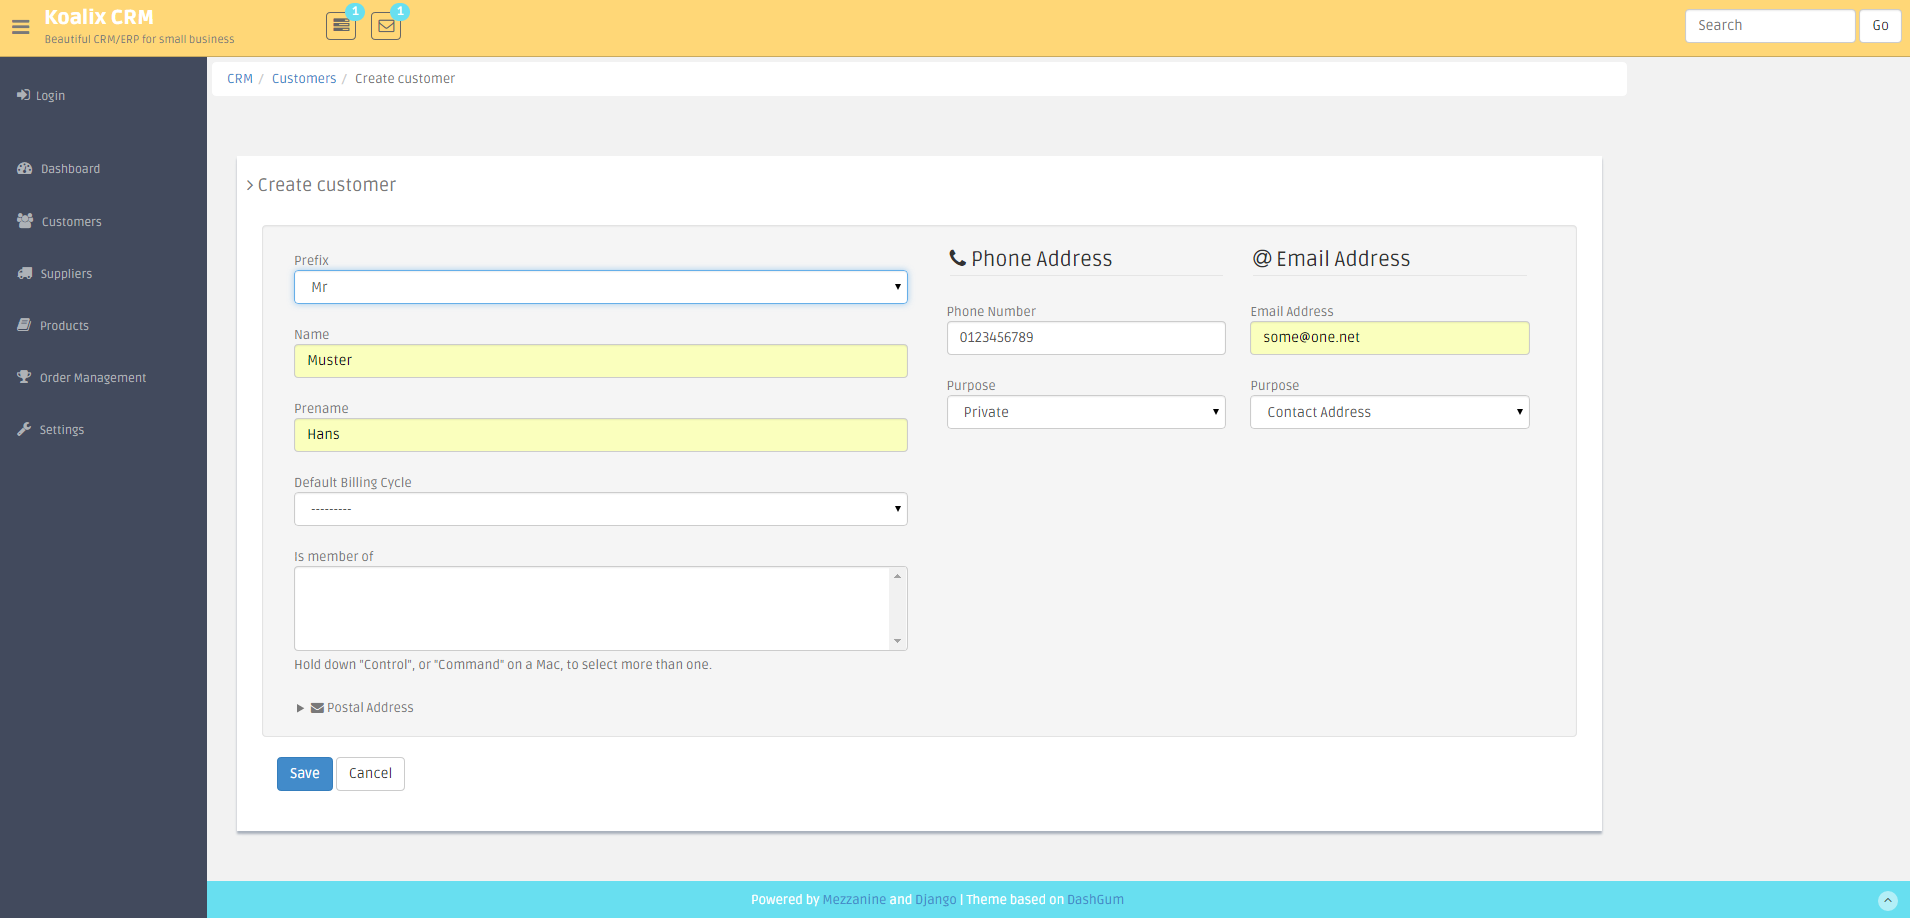
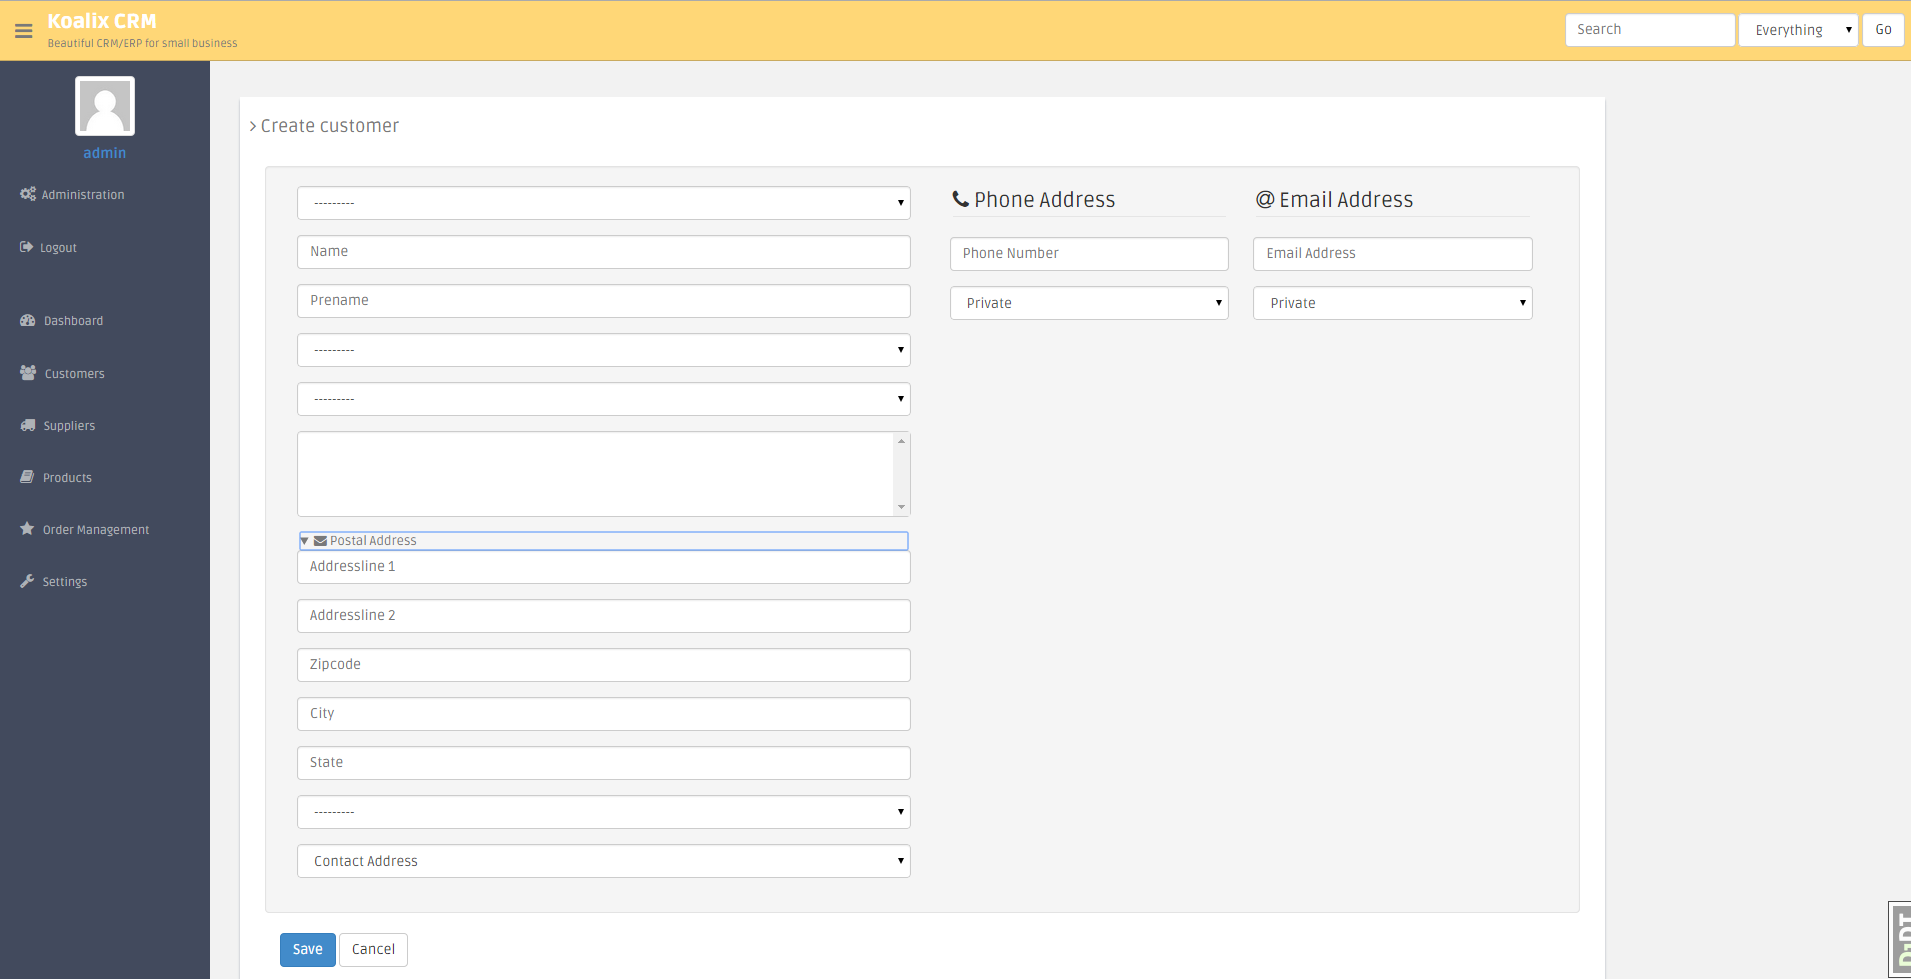
Updated documentation. Closes #23

diff --git a/README.md b/README.md
@@ -27,6 +27,7 @@ Note: This project is currently in alpha phase
 
 Read the documentation for installation instructions at http://koalix-crm.readthedocs.org/en/master/
 
+
 ## Features
 
 Koalix CRM provides following benefits:
@@ -64,20 +65,23 @@ Koalix CRM provides following benefits:
     *   Italian
     *   French
 
+
 ## About this project
 KoalixCRM is a fork of [scaphilo's koalixcrm](https://github.com/scaphilo/koalixcrm) with the goal of a contemporary CRM/ERP 
 as a small business solution with a beautiful user interface and a bunch of a lot of useful features.
 
 This project uses agile development methods such as [Scrum](http://en.wikipedia.org/wiki/Scrum_(software_development)) and [Continuous Integration](http://en.wikipedia.org/wiki/Continuous_integration). 
-Releases are organized in [Sprints](http://en.wikipedia.org/wiki/Scrum_(software_development)#Sprint) from 3 to 8 weeks. You can have a look at our [Taskboard](http://en.wikipedia.org/wiki/Scrum_(software_development)#Taskboard) at [waffle.io](http://waffle.io/tfroehlich82/koalixcrm). Sprints are managed by github milestones [here](https://github.com/tfroehlich82/koalixcrm/milestones).
+Releases are organized in [Sprints](http://en.wikipedia.org/wiki/Scrum_(software_development)#Sprint) from 3 to 8 weeks. You can have a look at our [Taskboard](http://en.wikipedia.org/wiki/Scrum_(software_development)#Taskboard) at [waffle.io](http://waffle.io/tfroehlich82/koalixcrm). Sprints are managed by github milestones [here](https://github.com/tfroehlich82/koalixcrm/milestones). Each Release is the result of a completed Sprint.
 
 Please make a donation if you like this project and want help to even make it better:
     
 [<img src="https://www.paypalobjects.com/en_US/i/btn/btn_donateCC_LG.gif">](https://www.paypal.com/cgi-bin/webscr?cmd=_s-xclick&hosted_button_id=ES8RFB7JN9CXC)
 
 
-## Screenshots
-![Alt Create Customer](/doc/source/images/customer_create.png "Create Customer")
-![Alt Product Overview](/doc/source/images/product_overview.png "Product Overview")
-
+## License
 This project is released under the [new BSD license](LICENSE).
+
+
+## Screenshots
+![Alt Create customer view](/doc/source/images/customer_create.png "Create customer view")
+![Alt Product overview](/doc/source/images/customer_overview.png "Customer overview")

diff --git a/doc/source/installation.rst b/doc/source/installation.rst
@@ -40,9 +40,9 @@ Setting up the demo
     1. Download the source
     2. Extract to a folder of your choice
     3. Open console and change to that folder
-    4. Type ``python manage.py creadeb``
-    5. Create an superuser when you're asked
-    6. Type ``python manage.py runserver``
+    4. Execute ``python manage.py creadeb``
+    5. Create an superuser when you're asked for
+    6. Execute ``python manage.py runserver``
     7. Open your browser and go to http://127.0.0.1:8000
     8. Login with the username and password you created at step #4
 
@@ -59,7 +59,7 @@ Install the initial data
 To install the initial user groups do the following:
 
     1. Open console and change to project folder
-    2. Type ``python manage.py loaddata auth_groups``
+    2. Execute ``python manage.py loaddata auth_groups``
 
 
 Setting up for development
@@ -80,5 +80,5 @@ You first need to install some more packages
     If you have installed pip you can just use ``pip install -r dev-requirements.txt``
 
 
-    GIT clone from::
+    GIT clone from:
         https://github.com/tfroehlich82/koalixcrm.git
